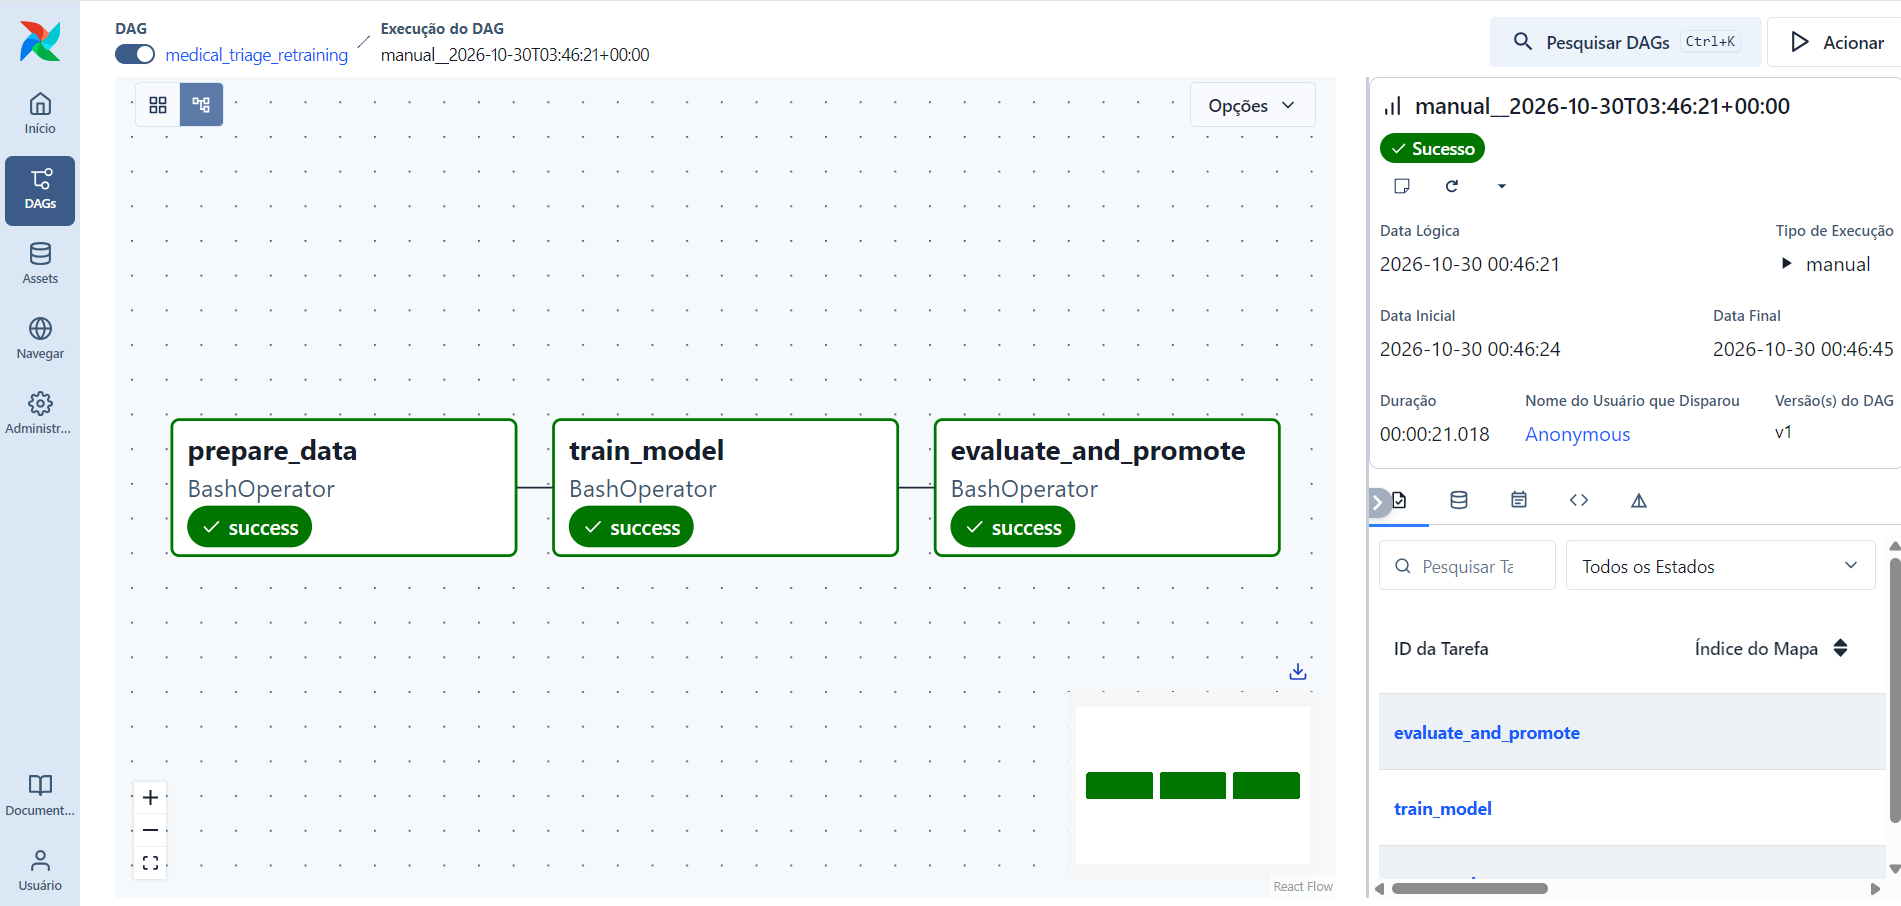
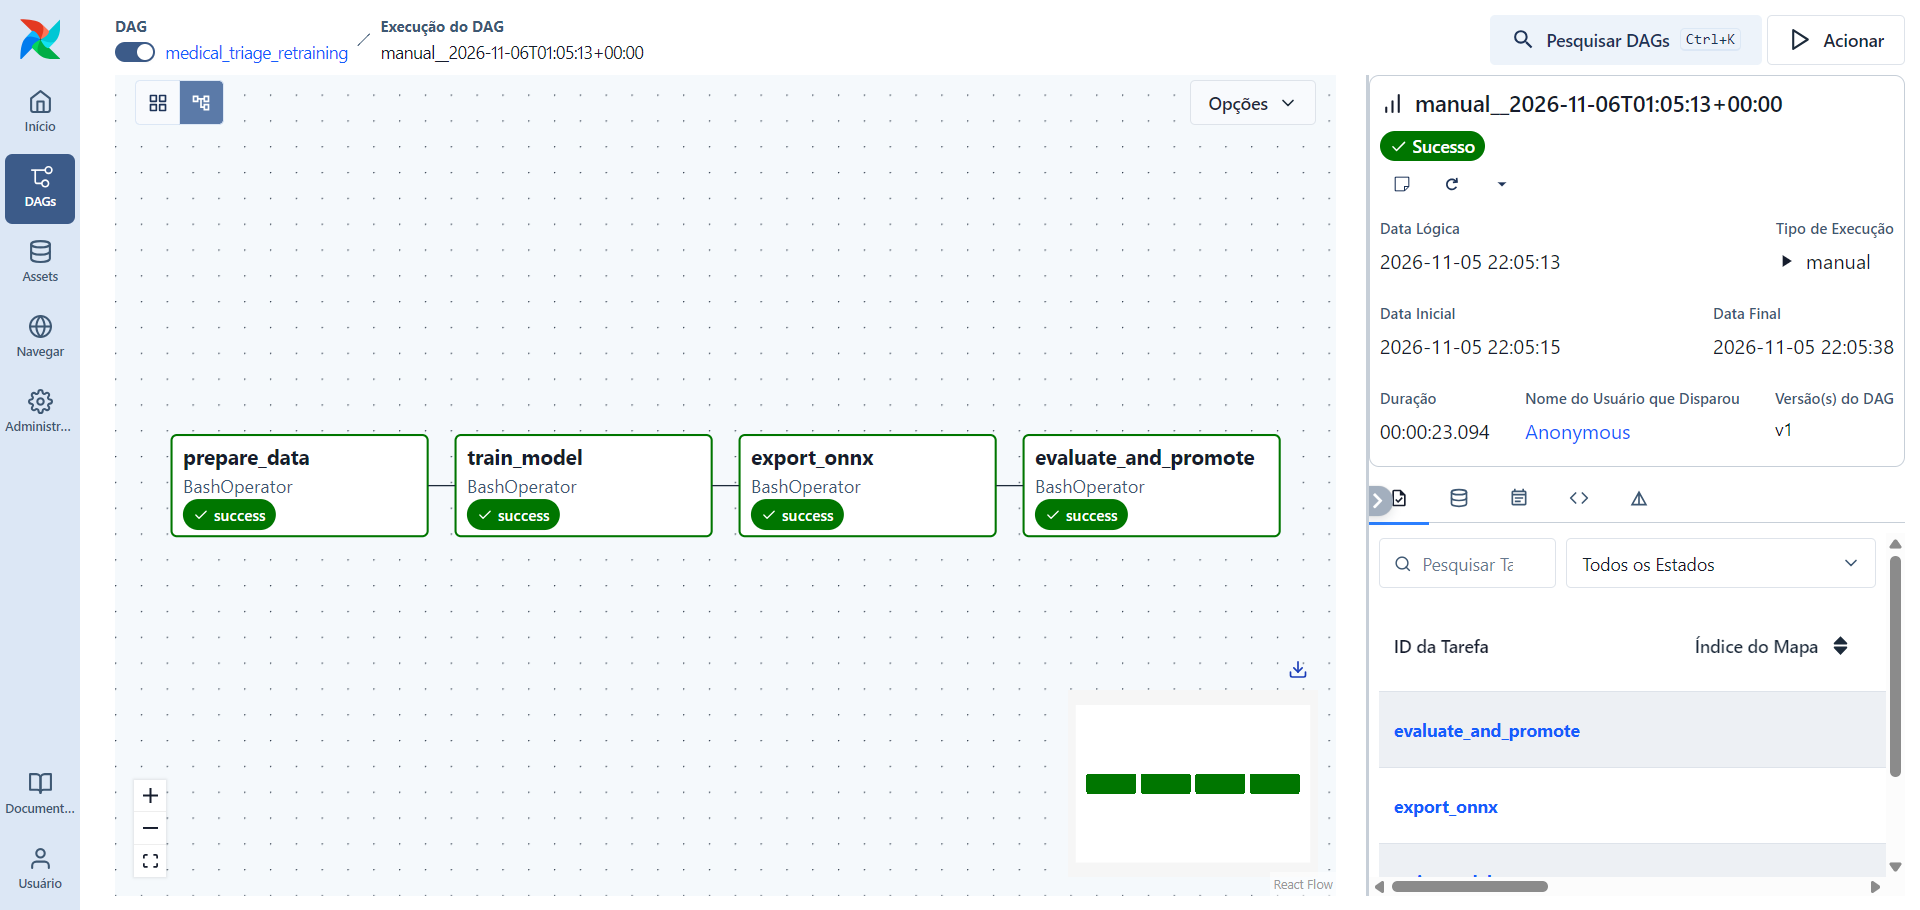
feat: export ONNX in the retraining DAG and switch to English urgency labels

diff --git a/src/train.py b/src/train.py
@@ -13,17 +13,19 @@ from sklearn.model_selection import train_test_split
 from sklearn.pipeline import Pipeline
 
 from src.data_cleaning import remove_ambiguous_texts
+from src.onnx_export import export_model, max_probability_gap
 
 ROOT = Path(__file__).resolve().parents[1]
 RAW_DIR = ROOT / "data" / "raw"
 PROCESSED_DIR = ROOT / "data" / "processed"
 MAPPING_PATH = ROOT / "configs" / "urgency_mapping.json"
 MODELS_DIR = ROOT / "models"
-CANDIDATE_PATH = MODELS_DIR / "candidate" / "model.joblib"
-MODEL_PATH = MODELS_DIR / "model.joblib"
+CANDIDATE_DIR = MODELS_DIR / "candidate"
+SERVING_FILES = ["model.joblib", "vectorizer.joblib", "forest.onnx"]
 METRICS_PATH = MODELS_DIR / "metrics.json"
 RANDOM_STATE = 42
 MIN_URGENT_RECALL = float(os.getenv("MIN_URGENT_RECALL", "0.80"))
+MAX_ONNX_GAP = 1e-4
 
 
 def load_clean_data():
@@ -74,7 +76,7 @@ def evaluate(model, texts, labels, mapping):
     return {
         "f1_macro": f1_score(labels, pred, average="macro"),
         "urgent_recall": recall_score(
-            true_urgency == "urgente", pred_urgency == "urgente"
+            true_urgency == "urgent", pred_urgency == "urgent"
         ),
     }
 
@@ -124,20 +126,28 @@ def train_model():
     train_clean = pd.read_csv(PROCESSED_DIR / "train.csv")
     model = build_pipeline(class_weight="balanced")
     model.fit(train_clean["medical_abstract"], train_clean["condition_label"])
-    CANDIDATE_PATH.parent.mkdir(parents=True, exist_ok=True)
-    joblib.dump(model, CANDIDATE_PATH)
-    print(f"Modelo candidato salvo em {CANDIDATE_PATH}")
+    CANDIDATE_DIR.mkdir(parents=True, exist_ok=True)
+    joblib.dump(model, CANDIDATE_DIR / "model.joblib")
+    print(f"Modelo candidato salvo em {CANDIDATE_DIR}")
+
+
+def export_onnx():
+    """Etapa 3: converte o candidato para o formato de serviço (TF-IDF + floresta em ONNX)."""
+    export_model(joblib.load(CANDIDATE_DIR / "model.joblib"), CANDIDATE_DIR)
+    print(f"Candidato exportado para ONNX em {CANDIDATE_DIR}")
 
 
 def evaluate_and_promote():
-    """Etapa 3: avalia o candidato no teste e só o promove se passar no portão de qualidade."""
+    """Etapa 4: avalia o candidato no teste e só o promove se passar nos dois portões."""
     train_clean = pd.read_csv(PROCESSED_DIR / "train.csv")
     test_clean = pd.read_csv(PROCESSED_DIR / "test.csv")
     mapping = load_urgency_mapping()
-    model = joblib.load(CANDIDATE_PATH)
+    model = joblib.load(CANDIDATE_DIR / "model.joblib")
+    texts = test_clean["medical_abstract"]
 
-    metrics = evaluate(
-        model, test_clean["medical_abstract"], test_clean["condition_label"], mapping
+    metrics = evaluate(model, texts, test_clean["condition_label"], mapping)
+    metrics["onnx_max_probability_gap"] = max_probability_gap(
+        model, CANDIDATE_DIR, texts.tolist()
     )
     metrics["train_rows"] = len(train_clean)
     metrics["test_rows"] = len(test_clean)
@@ -145,7 +155,7 @@ def evaluate_and_promote():
     print("\n== Modelo candidato (avaliado no teste) ==")
     for name, value in metrics.items():
         print(
-            f"{name}: {value:.3f}" if isinstance(value, float) else f"{name}: {value}"
+            f"{name}: {value:.3g}" if isinstance(value, float) else f"{name}: {value}"
         )
 
     if not passes_quality_gate(metrics):
@@ -153,16 +163,24 @@ def evaluate_and_promote():
             f"Modelo REPROVADO: urgent_recall {metrics['urgent_recall']:.3f} "
             f"< mínimo {MIN_URGENT_RECALL}. O modelo em uso não foi alterado."
         )
+    if metrics["onnx_max_probability_gap"] > MAX_ONNX_GAP:
+        raise SystemExit(
+            f"Modelo REPROVADO: o ONNX diverge do scikit-learn em "
+            f"{metrics['onnx_max_probability_gap']:.2e} (máximo {MAX_ONNX_GAP:.0e}). "
+            "O modelo em uso não foi alterado."
+        )
 
     MODELS_DIR.mkdir(exist_ok=True)
-    shutil.copyfile(CANDIDATE_PATH, MODEL_PATH)
+    for name in SERVING_FILES:
+        shutil.copyfile(CANDIDATE_DIR / name, MODELS_DIR / name)
     METRICS_PATH.write_text(json.dumps(metrics, indent=2), encoding="utf-8")
-    print(f"\nModelo aprovado e promovido para {MODEL_PATH}")
+    print(f"\nModelo aprovado e promovido para {MODELS_DIR}")
 
 
 STEPS = {
     "prepare": prepare_data,
     "train": train_model,
+    "export": export_onnx,
     "evaluate": evaluate_and_promote,
 }
 

diff --git a/src/onnx_export.py b/src/onnx_export.py
@@ -4,9 +4,11 @@ from pathlib import Path
 
 import joblib
 import numpy as np
+import onnxruntime as ort
 from skl2onnx import to_onnx
 
 MODELS_DIR = Path(__file__).resolve().parents[1] / "models"
+CHUNK_SIZE = 500
 
 
 def export_model(pipeline, models_dir=MODELS_DIR):
@@ -25,6 +27,24 @@ def export_model(pipeline, models_dir=MODELS_DIR):
     models_dir.mkdir(exist_ok=True)
     joblib.dump(vectorizer, models_dir / "vectorizer.joblib")
     (models_dir / "forest.onnx").write_bytes(onnx_model.SerializeToString())
+
+
+def max_probability_gap(pipeline, models_dir, texts):
+    """Maior diferença de probabilidade entre o pipeline original e o ONNX exportado."""
+    models_dir = Path(models_dir)
+    vectorizer = joblib.load(models_dir / "vectorizer.joblib")
+    session = ort.InferenceSession(
+        str(models_dir / "forest.onnx"), providers=["CPUExecutionProvider"]
+    )
+    input_name = session.get_inputs()[0].name
+
+    gaps = []
+    for start in range(0, len(texts), CHUNK_SIZE):
+        chunk = texts[start : start + CHUNK_SIZE]
+        features = vectorizer.transform(chunk).toarray().astype(np.float32)
+        onnx_probabilities = session.run(None, {input_name: features})[1]
+        gaps.append(np.abs(pipeline.predict_proba(chunk) - onnx_probabilities).max())
+    return float(max(gaps))
 
 
 if __name__ == "__main__":

diff --git a/dags/retraining_dag.py b/dags/retraining_dag.py
@@ -13,26 +13,18 @@ def step_command(step: str) -> str:
 
 with DAG(
     dag_id="medical_triage_retraining",
-    description="Retreino do classificador: preparar dados, treinar e promover o modelo",
+    description="Retreino: preparar dados, treinar, exportar para ONNX e promover o modelo",
     start_date=datetime(2026, 1, 1),
     schedule="@weekly",
     catchup=False,
     max_active_runs=1,
     tags=["mlops", "triage"],
 ) as dag:
-    prepare = BashOperator(
-        task_id="prepare_data",
-        bash_command=step_command("prepare"),
-    )
-
-    train = BashOperator(
-        task_id="train_model",
-        bash_command=step_command("train"),
-    )
-
+    prepare = BashOperator(task_id="prepare_data", bash_command=step_command("prepare"))
+    train = BashOperator(task_id="train_model", bash_command=step_command("train"))
+    export = BashOperator(task_id="export_onnx", bash_command=step_command("export"))
     evaluate = BashOperator(
-        task_id="evaluate_and_promote",
-        bash_command=step_command("evaluate"),
+        task_id="evaluate_and_promote", bash_command=step_command("evaluate")
     )
 
-    prepare >> train >> evaluate
+    prepare >> train >> export >> evaluate

diff --git a/tests/test_onnx.py b/tests/test_onnx.py
@@ -1,6 +1,6 @@
 import pytest
 
-from src.onnx_export import export_model
+from src.onnx_export import export_model, max_probability_gap
 from src.predictors import OnnxPredictor
 
 
@@ -15,3 +15,13 @@ def test_onnx_confidence_matches_sklearn(tiny_model, tmp_path, text):
     expected = tiny_model.predict_proba([text])[0].max()
     assert confidence == pytest.approx(expected, abs=1e-5)
     assert label in tiny_model.classes_
+
+
+def test_onnx_probabilities_match_sklearn(tiny_model, tmp_path):
+    export_model(tiny_model, tmp_path)
+    texts = [
+        "heart coronary disease",
+        "tumor chemotherapy",
+        "words the model has never seen",
+    ]
+    assert max_probability_gap(tiny_model, tmp_path, texts) < 1e-4

diff --git a/tests/test_api.py b/tests/test_api.py
@@ -27,7 +27,7 @@ def test_predict_returns_valid_response(client):
     response = client.post("/predict", json={"text": "heart coronary disease"})
     assert response.status_code == 200
     body = response.json()
-    assert body["urgency"] in {"urgente", "atencao", "normal"}
+    assert body["urgency"] in {"urgent", "attention", "normal"}
     assert 0 <= body["confidence"] <= 1
 
 
